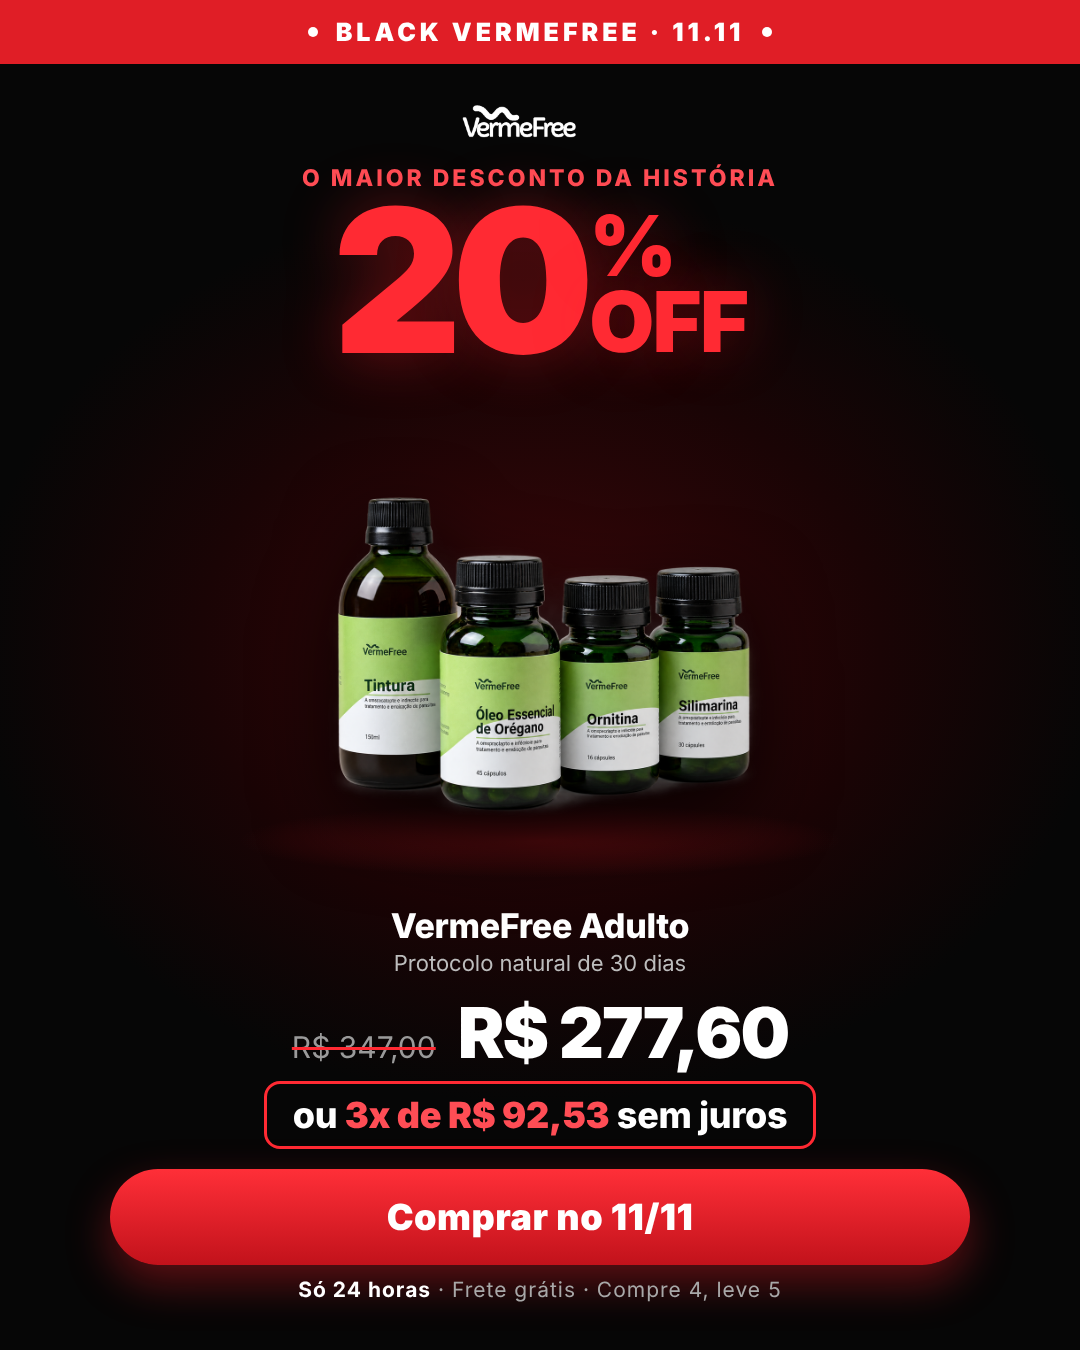
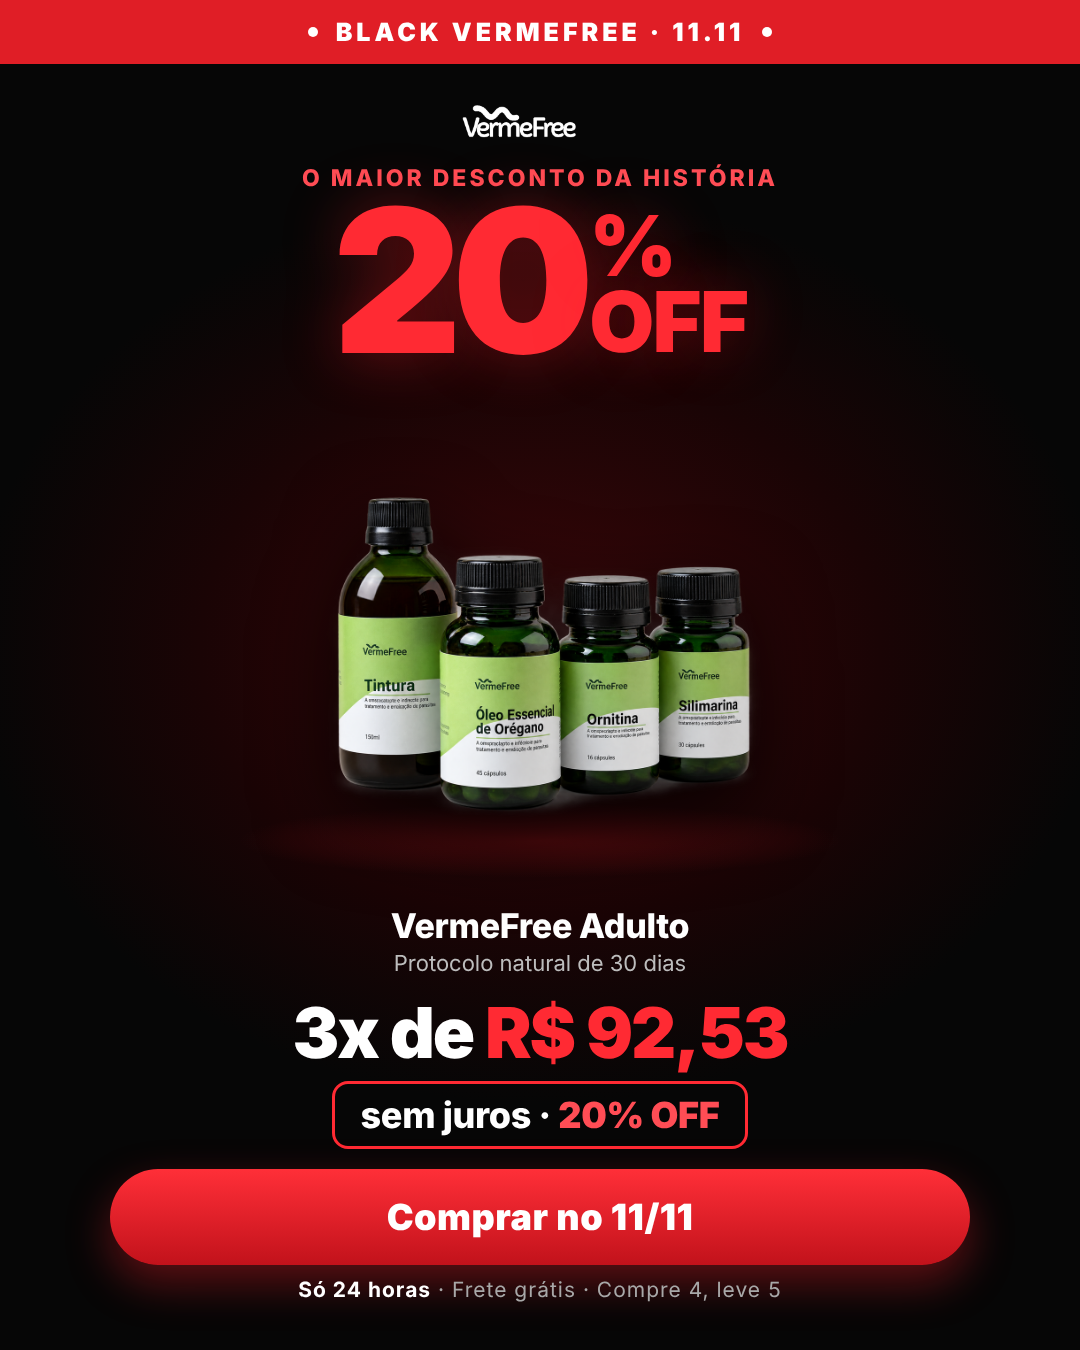
Black preços: tira preço total, parcela 3x sem juros (01–04)
Claude-Session: https://claude.ai/code/session_01UR7LFtJwBJjiUEuKDUpttV

Changed region(s): [[0.2444, 0.7467, 0.7333, 0.84]]

diff --git a/novembro-pedro/diario/2026-11-17.md b/novembro-pedro/diario/2026-11-17.md
@@ -14,3 +14,4 @@
 - Nova regra (Pedro, 17/11): anúncios sem preço total; se tiver preço, só a parcela (3x sem juros, como no site). Verme Week: 03, 04, 05, 06 e 09 refeitas e trocadas no Drive (as antigas foram para a lixeira). Próximas: Verme Friday e Free Monday. A Verme November fica como está (acaba 19/11).
 - Verme Friday sem preço total aprovada e trocada no Drive (pasta [07] e a subpasta "Criativos [Estáticos]"): 30 artes novas (v5 03/04/05/06/09 · neon e sale 03/04/05/07/09, em 4:5 e 9:16); as 30 antigas foram para a lixeira. Próxima: Free Monday.
 - Free Monday sem preço total aprovada e trocada no Drive ([08]/[2]): 12 artes novas (03, 04, 05, 06, 08, 10 em 4:5 e 9:16); as 12 antigas foram para a lixeira. Ainda com preço: lote "black-precos" e Verme November (fica, acaba 19/11).
+- Lote Black (black-precos 01–04) sem preço total: parcela 3x em destaque + "sem juros · 20% OFF". Novas no Drive (2 pastas com o lote completo + 4:5 "PROMO-11-11 ·" na [03]); 25 antigas para a lixeira, incluindo 4 cópias 4:5 do drive compartilhado (pasta não identificada, sem reposição lá).
